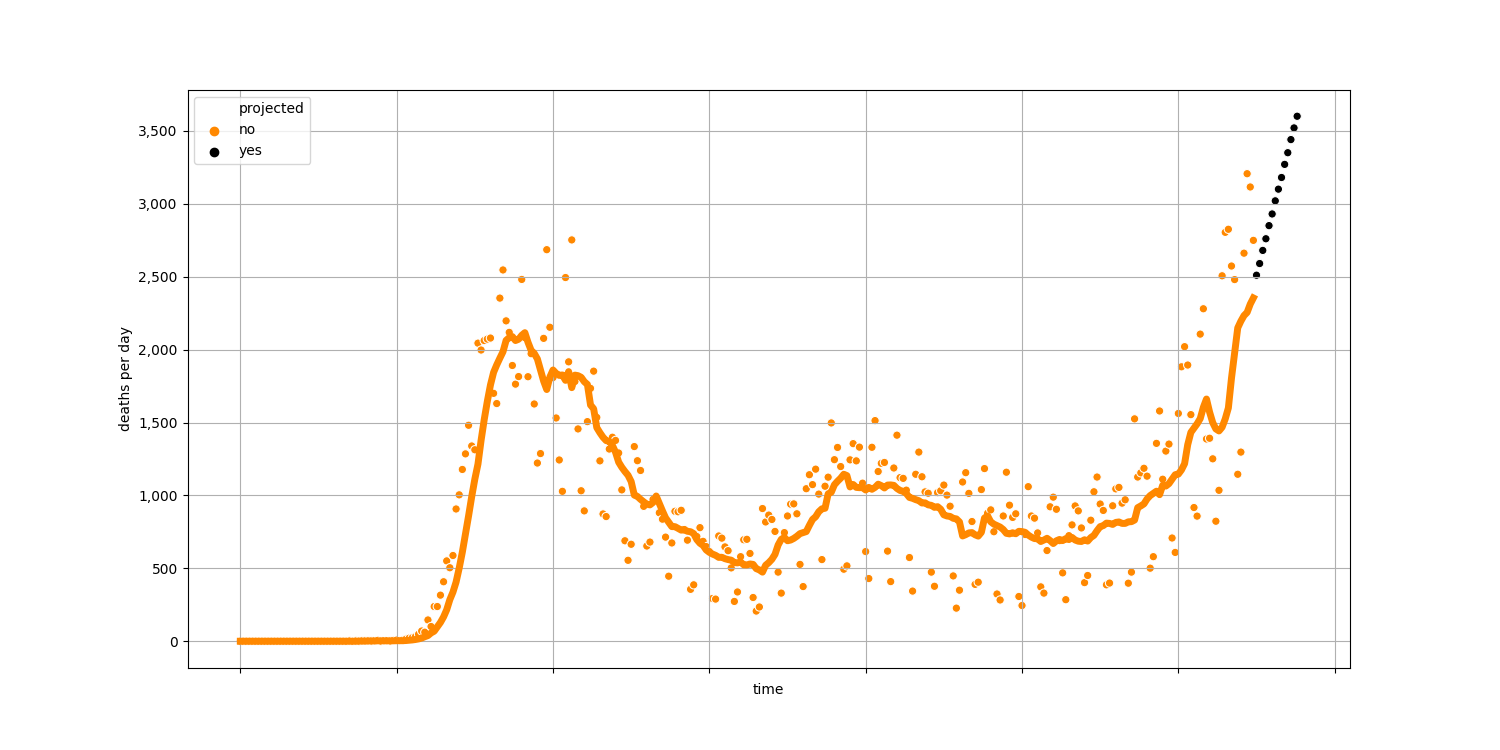
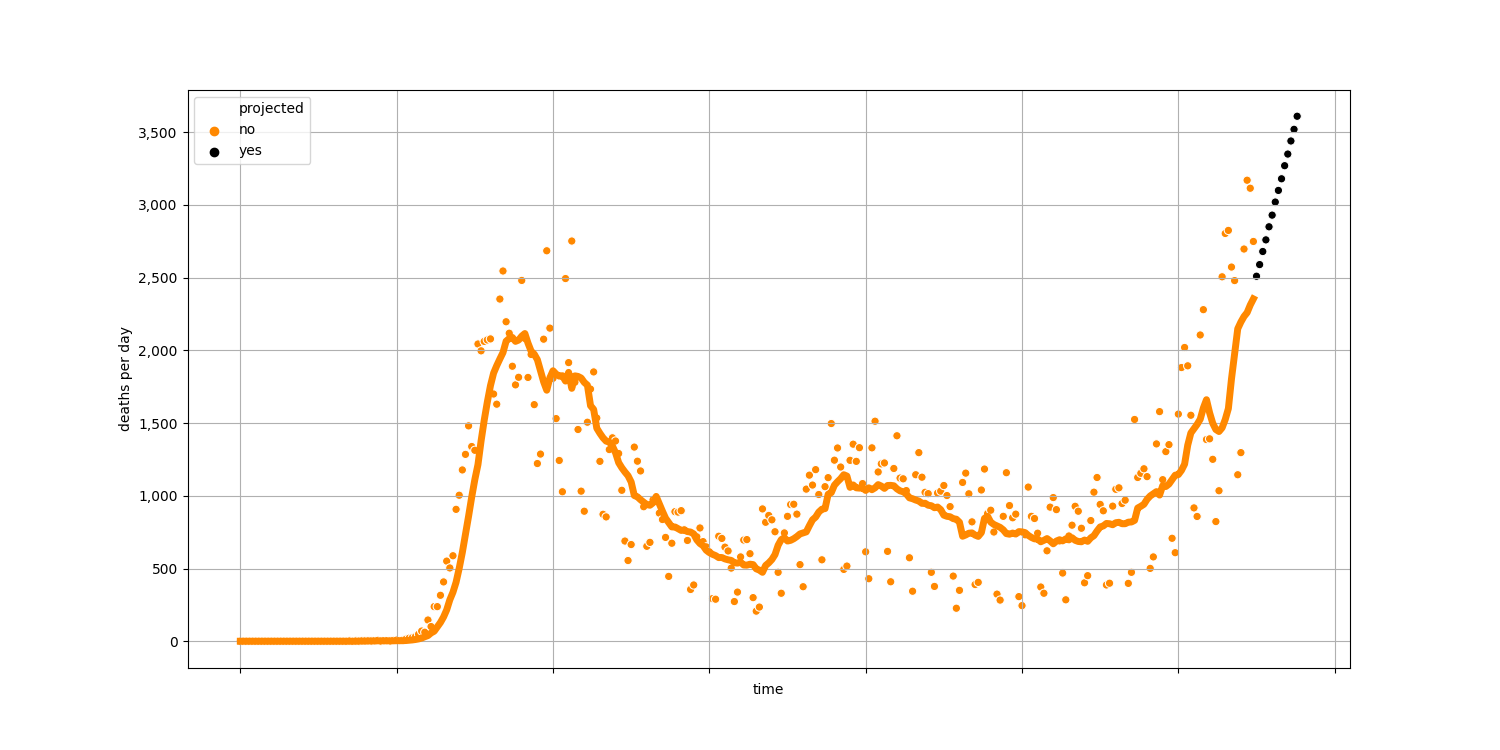
regular update

diff --git a/docs/ND.html b/docs/ND.html
@@ -109,8 +109,8 @@
             There are about <strong>18</strong> new
             deaths every day (7-day average). At the current rate, the average
             number of people dying each day will be about
-            <strong>18</strong> in 7 days and
-            about <strong>21</strong> in 14
+            <strong>19</strong> in 7 days and
+            about <strong>23</strong> in 14
             days. This chart shows the number of deaths each day since the first
             case was identified. The dots are the total number of deaths for
             each day and the line is the average of the previous seven days. The

diff --git a/docs/index.html b/docs/index.html
@@ -110,7 +110,7 @@
             deaths every day (7-day average). At the current rate, the average
             number of people dying each day will be about
             <strong>3,020</strong> in 7 days and
-            about <strong>3,600</strong> in 14
+            about <strong>3,610</strong> in 14
             days. This chart shows the number of deaths each day since the first
             case was identified. The dots are the total number of deaths for
             each day and the line is the average of the previous seven days. The
